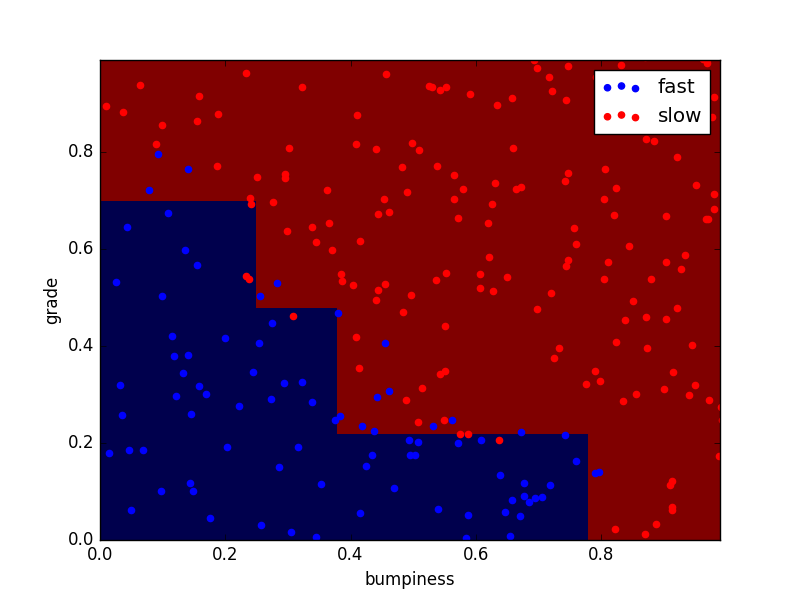
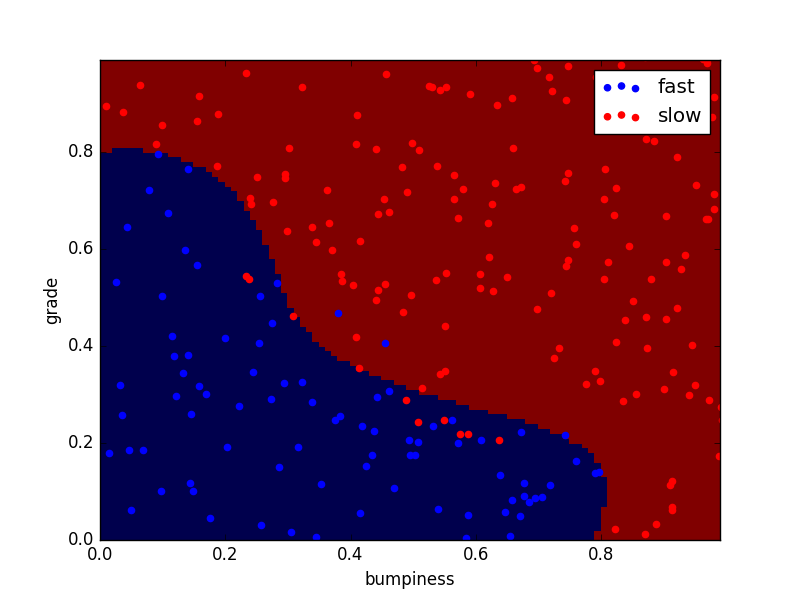
feat: add SVM parameter test case

Changed region(s): [[0.125, 0.24, 0.7812, 0.9]]

diff --git a/SVM/codingUpTheSVMwithRBF.py b/SVM/codingUpTheSVMwithRBF.py
@@ -12,7 +12,7 @@ features_train, labels_train, features_test, labels_test = makeTerrainData()
 ########################## SVM #################################
 # we handle the import statement and SVC creation for you here
 from sklearn.svm import SVC
-clf = SVC(kernel="linear")
+clf = SVC(kernel="rbf", C=100000.0)
 
 # now your job is to fit the classifier
 # using the training features/labels, and to
